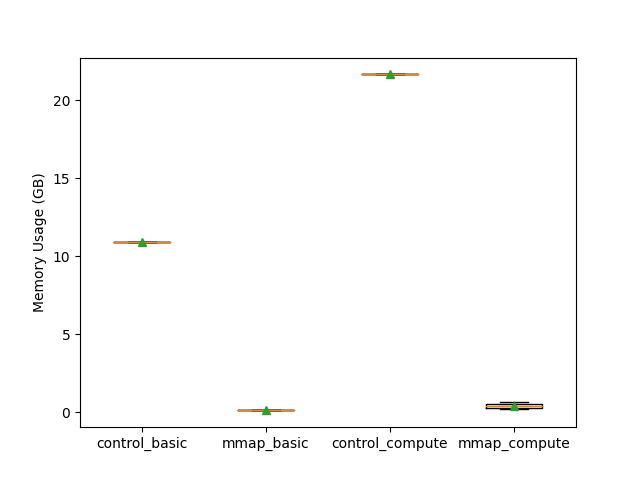
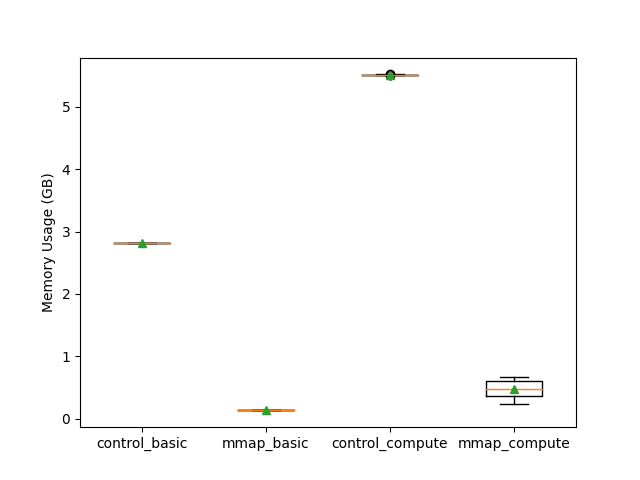
explicitly gc when adding to buffer
$ python3 colbert/tests/mmap_test.py --target_dir=./experiments/mmap_test --test_iter=1

Starting MMap stress test

Starting random file read control test from /lfs/1/udingank/msmarco.nbits-2.latest
Starting iteration 0
copying cycle 0

Starting random file read mmap test from /lfs/1/udingank/msmarco.nbits-2.latest
Starting iteration 0
copying cycle 0

Saving Results
--------------
Results saved to ./experiments/mmap_test/results-hdd.png

control_basic: 2.82 GB
mmap_basic: 0.13 GB
control_compute: 5.52 GB
mmap_compute: 0.47 GB

Timing Summary
--------------

  Timing   |  Control  |  MMap
  -----------|-----------|--------------
   read time | 2.19291  |  0.00710
    copy time | 0.25883  |  0.04629
      compute  | 0.00259  |  0.00038
         total   | 5.26520  |  0.74198

         Starting random file read control test from /lfs/0/udingank/msmarco.nbits-2.latest
         Starting iteration 0
         copying cycle 0

         Starting random file read mmap test from /lfs/0/udingank/msmarco.nbits-2.latest
         Starting iteration 0
         copying cycle 0

         Saving Results
         --------------
         Results saved to ./experiments/mmap_test/results-ssd.png

         control_basic: 2.82 GB
         mmap_basic: 0.14 GB
         control_compute: 5.52 GB
         mmap_compute: 0.45 GB

         Timing Summary
         --------------

           Timing   |  Control  |  MMap
           -----------|-----------|--------------
[…]

diff --git a/colbert/tests/mmap_test.py b/colbert/tests/mmap_test.py
@@ -42,10 +42,7 @@ control_timing = []
 mmap_timing = []
 
 def read_residuals(mmap, filepath, proc, q):
-    if mmap:
-        mem_buf = []
-    else:
-        mem_buf = torch.empty(0)
+    mem_buf = []
 
     for i in range(NUM_RES_FILES):
         filename = os.path.join(filepath, "{}.residuals.pt".format(i))
@@ -59,11 +56,14 @@ def read_residuals(mmap, filepath, proc, q):
         if mmap:
             mem_buf.append(torch.ByteTensor(storage))
         else:
-            temp = torch.load(filename, map_location='cpu')
-            mem_buf = torch.cat([mem_buf, temp])
+            mem_buf.append(torch.load(filename, map_location='cpu'))
 
-            del temp
-            gc.collect()
+    if not mmap:
+        temp = torch.cat(mem_buf)
+        for x in mem_buf:
+            del x
+        mem_buf = temp
+        gc.collect()
 
     mem = proc.memory_info().rss/B_PER_GB
     q.put(mem)
